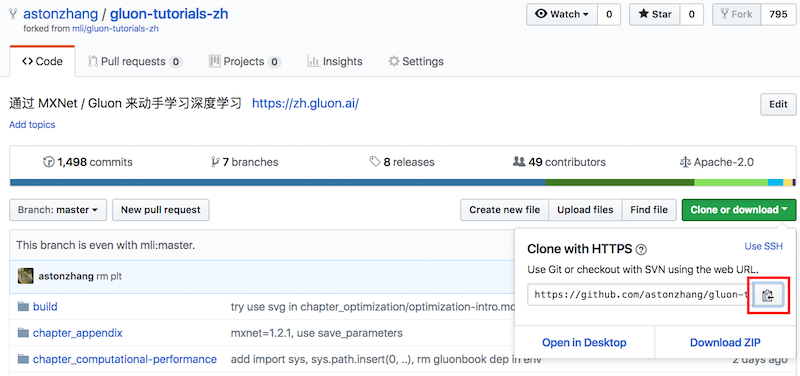
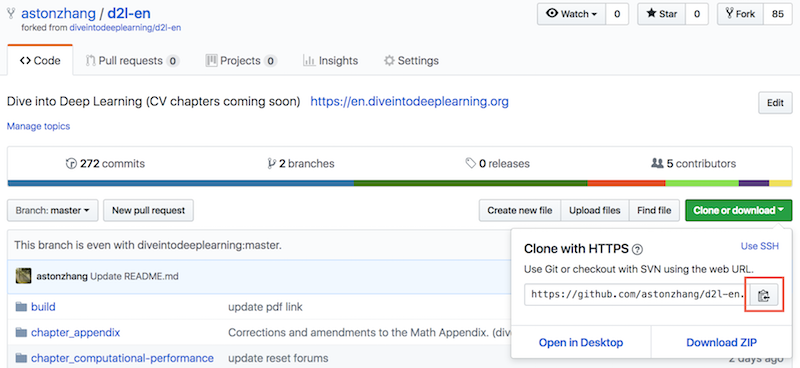
revise how to contrib

diff --git a/chapter_appendix/how-to-contribute.md b/chapter_appendix/how-to-contribute.md
@@ -1,21 +1,21 @@
 # How to Contribute to This Book
 
-In the "Acknowledgments" section of this book, we thank all the contributors to this book and list their GitHub IDs or names. Each contributor will also receive a special gift book dedicated to him or her when this book is published.
+In the "Acknowledgments" section of this book, we thank all the contributors to this book and list their GitHub IDs or names.
 
-You can view the list of contributors[1] in the GitHub code repository for this book. If you want to be one of the contributors to this book, you need to install Git and submit a pull request[2] for the GitHub code repository of this book. When your pull request is merged into the code repository by the author of this book, you will become a contributor.
+You can view the list of contributors [1] in the GitHub code repository for this book. If you want to be one of the contributors to this book, you need to install Git and submit a pull request[2] for the GitHub code repository of this book. When your pull request is merged into the code repository by the author of this book, you will become a contributor.
 
 This section describes the basic Git procedure for contributing to this book. If you are familiar with Git operations, you can skip this section.
 
 In the procedure below, we assume that the contributor's GitHub ID is "astonzhang".
 
-Step 1: Install Git. The Git open source book details how to install Git[3]. If you do note have a GitHub account, you need to sign up for an account[4].
+Step 1: Install Git. The Git open source book details how to install Git [3]. If you do note have a GitHub account, you need to sign up for an account [4].
 
-Step 2: Log in to GitHub. Enter the address of code repository of this book in your browser[2]. Click on the "Fork" button in the red box at the top-right of Figure 11.20 to get a copy of code repository of this book.
+Step 2: Log in to GitHub. Enter the address of code repository of this book in your browser [2]. Click on the "Fork" button in the red box at the top-right of Figure 11.20 to get a copy of code repository of this book.
 
 ![The code repository page. ](../img/contrib01.png)
 
 
-Now, the code repository of this book will be copied to your username, such as "Your GitHub ID/gluon-tutorials-zh" shown at the top-left of Figure 11.21.
+Now, the code repository of this book will be copied to your username, such as "Your GitHub ID/d2l-en" shown at the top-left of Figure 11.21.
 
 ![Copy the code repository. ](../img/contrib02.png)
 
@@ -24,13 +24,13 @@ Step 3: Click the green "Clone or download" button on the right side of Figure 1
 
 ```
 # Replace your_Github_ID with your GitHub username.
-git clone https://github.com/your_Github_ID/gluon-tutorials-zh.git
+git clone https://github.com/your_Github_ID/d2l-en.git
 ```
 
-Now, all the files in the code repository of this book will be saved in the local "~/repo/gluon-tutorials-zh" path.
+Now, all the files in the code repository of this book will be saved in the local "~/repo/d2l-en" path.
 
 
-Step 4: Edit the code repository of this book under the local path. Assume we have modified a typo in the file `~/repo/gluon-tutorials-zh/chapter_deep-learning-basics/linear-regression.md`. In command line mode, enter the path `~/repo/gluon-tutorials-zh` and execute the command:
+Step 4: Edit the code repository of this book under the local path. Assume we have modified a typo in the file `~/repo/d2l-en/chapter_deep-learning-basics/linear-regression.md`. In command line mode, enter the path `~/repo/d2l-en` and execute the command:
 
 ```
 git status
@@ -51,7 +51,7 @@ git push
 Here, `'fix typo in linear-regression.md'` is the description of the submitted change. You can replace this with other meaningful descriptive information.
 
 
-Step 5: Enter the code repository address of this book[2] in your browser again. Click the "New pull request" button in the red box on the left of Figure 11.20. On the page that appears, click the "compare across forks" link in the red box on the right side of Figure 11.23. Then, click the "head fork: mli/gluon-tutorials-zh" button in the red box below. Enter your GitHub ID in the pop-up text box and select "Your GitHub-ID/gluon-tutorials-zh" from the drop-down menu, as shown in Figure 11.23.
+Step 5: Enter the code repository address of this book[2] in your browser again. Click the "New pull request" button in the red box on the left of Figure 11.20. On the page that appears, click the "compare across forks" link in the red box on the right side of Figure 11.23. Then, click the "head fork: diveintodeeplearning/d2l-en" button in the red box below. Enter your GitHub ID in the pop-up text box and select "Your GitHub-ID/d2l-en" from the drop-down menu, as shown in Figure 11.23.
 
 
 ![Select the code repository where the source of the change is located. ](../img/contrib04.png)
@@ -74,17 +74,16 @@ After submitting the request, you will see the page shown in Figure 11.25, which
 * You can use GitHub to contribute to this book.
 
 
-## exercise
+## Problem
 
 * If you feel that some parts of the book can be improved, try submitting a pull request.
 
 
-
 ## References
 
-[1] List of contributors to this book. https://github.com/mli/gluon-tutorials-zh/graphs/contributors
+[1] List of contributors to this book. https://github.com/diveintodeeplearning/d2l-en/graphs/contributors
 
-[2] Address of the code repository of this book. https://github.com/mli/gluon-tutorials-zh
+[2] Address of the code repository of this book. https://github.com/diveintodeeplearning/d2l-en
 
 [3] Install Git. https://git-scm.com/book/zh/v2
 
